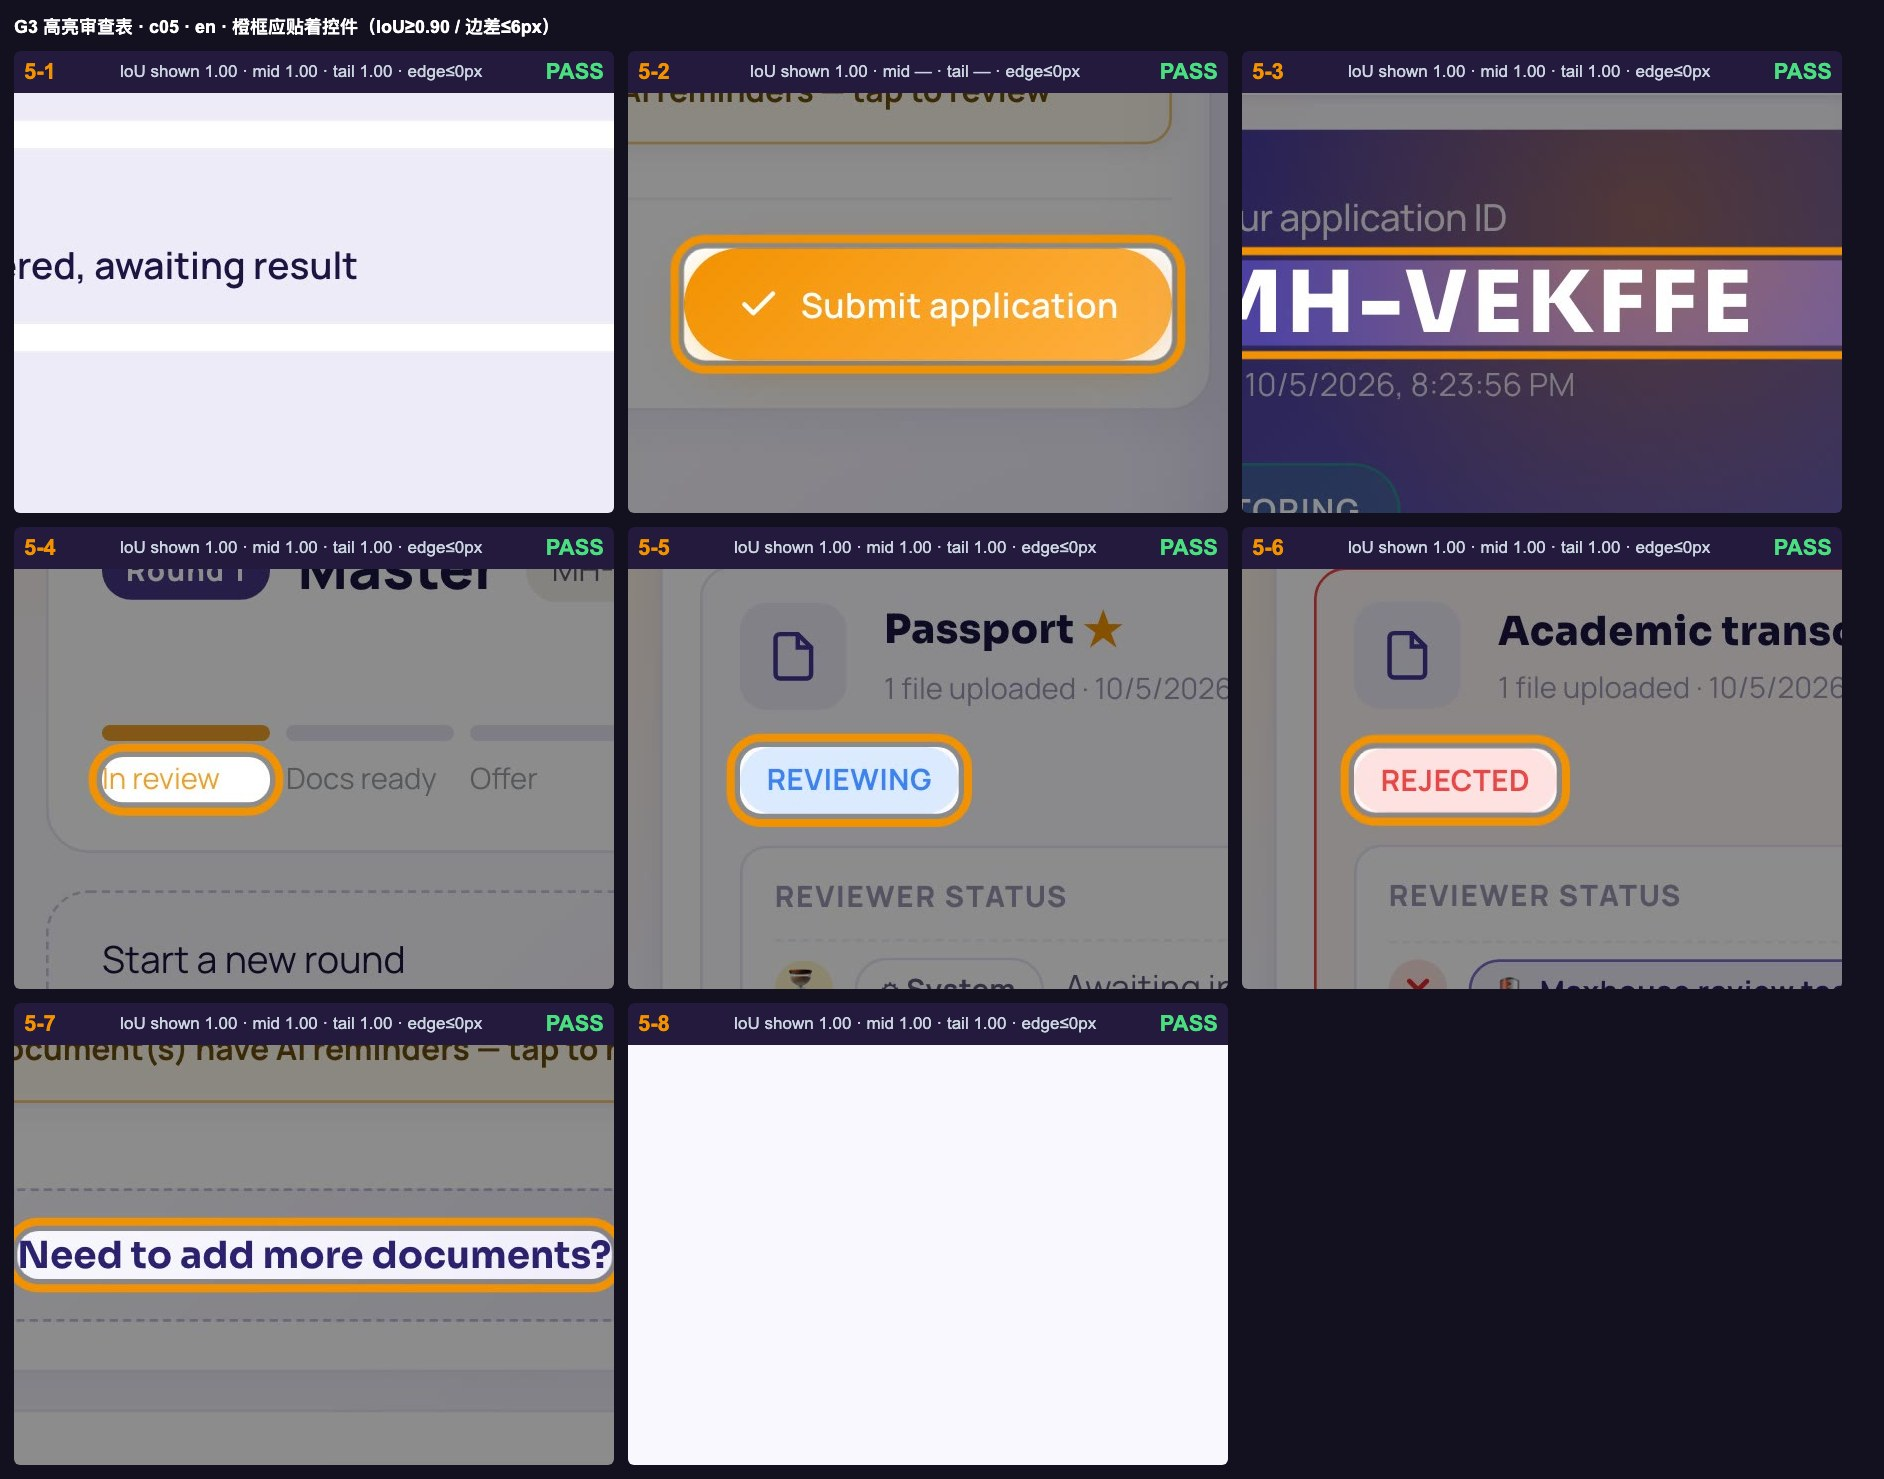
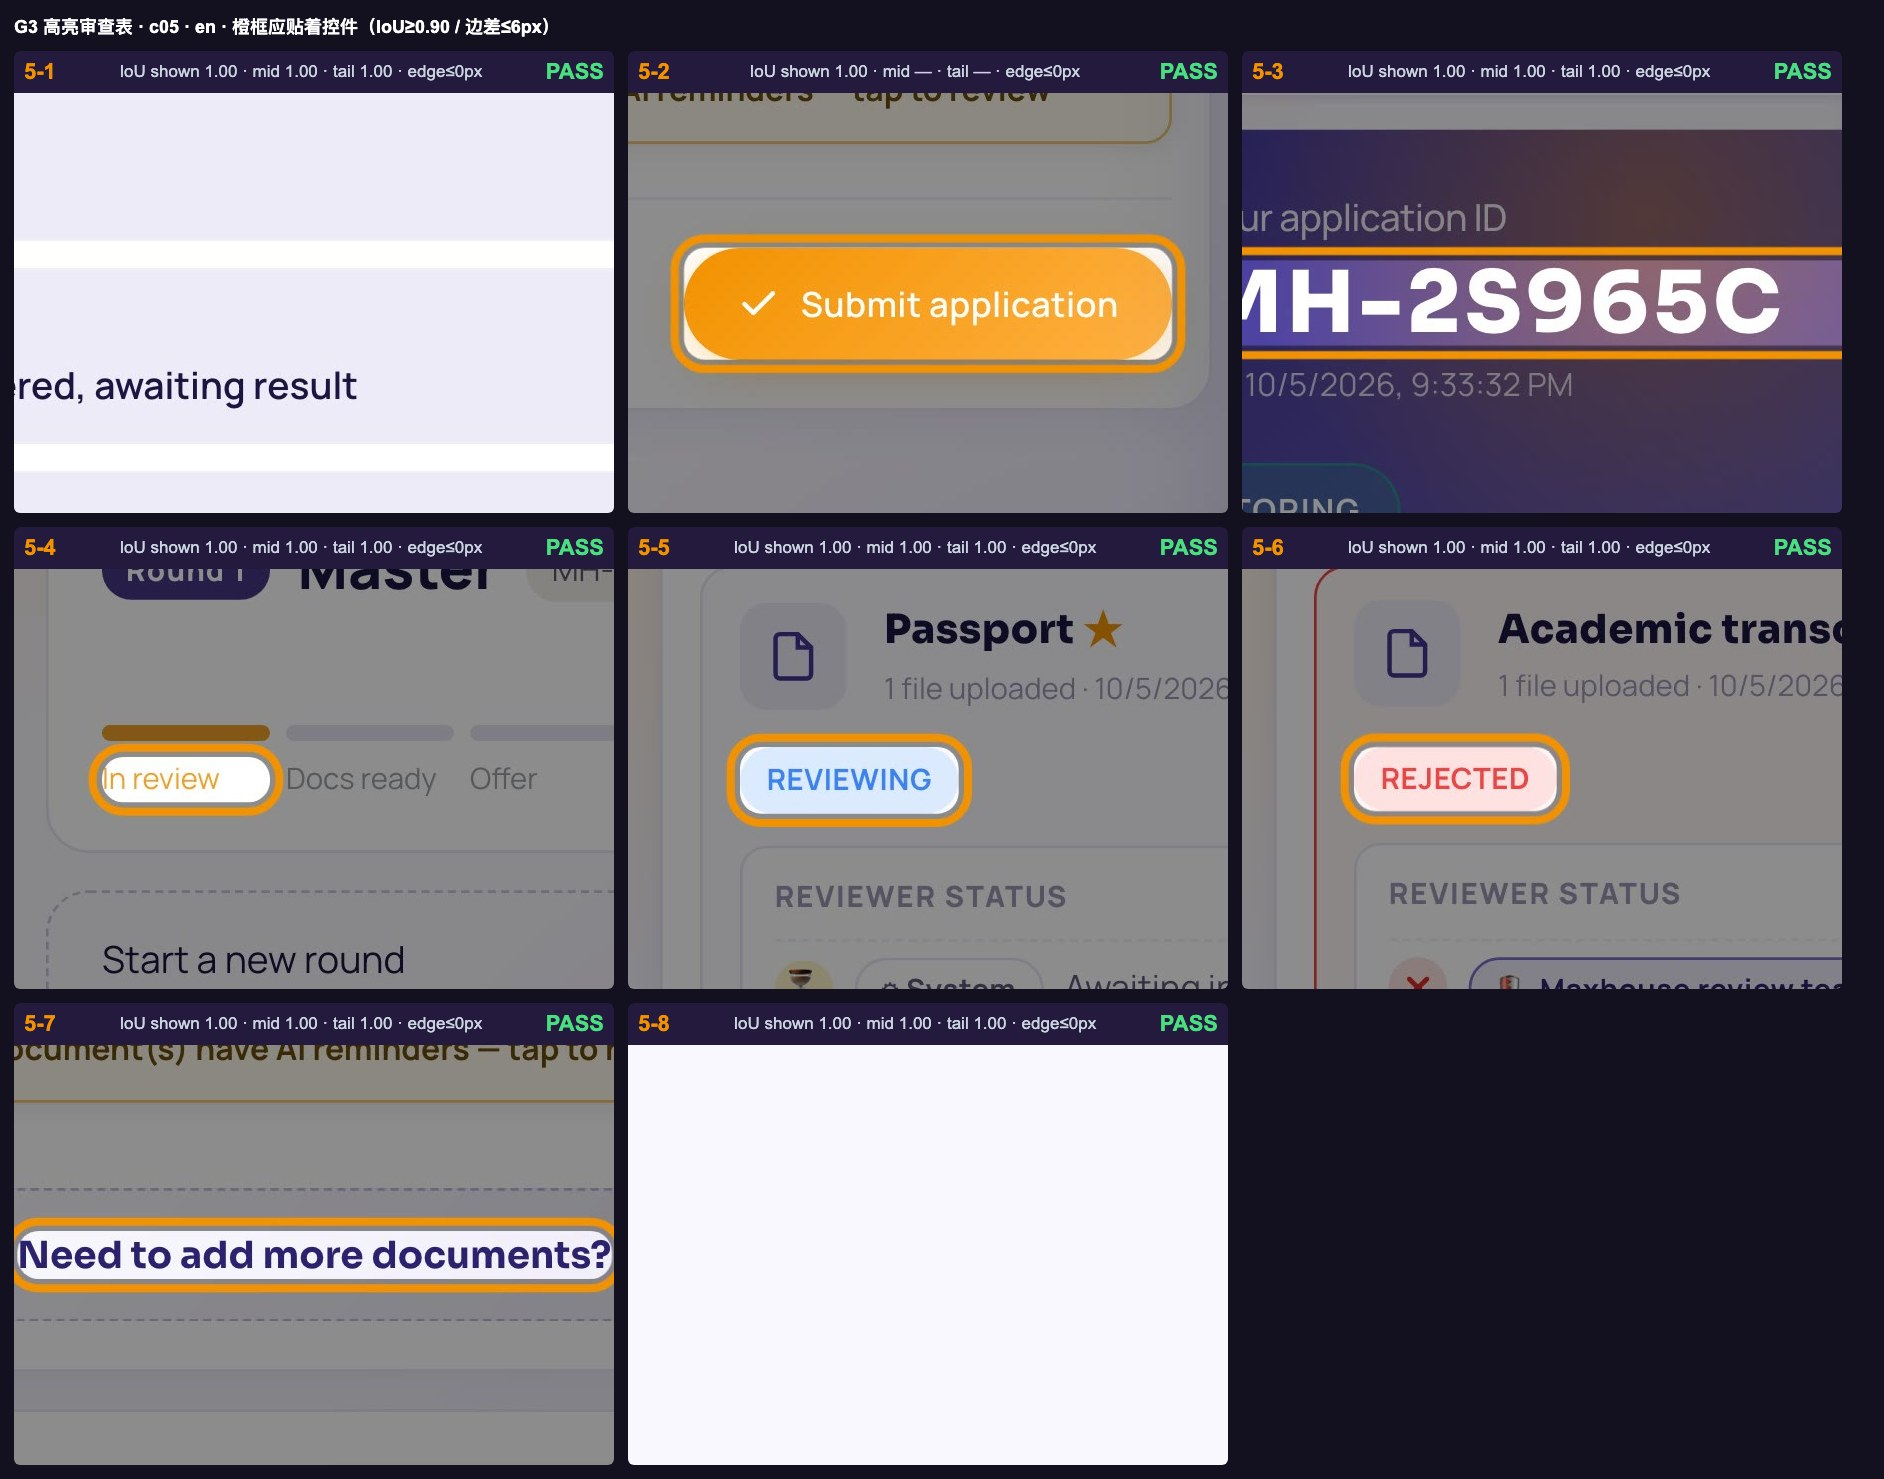
JOB-G3-02 回执+SUMMARY-G3-A(REVIEW=yes): 英文13章重录完成,86镜84高亮镜IoU=1.00,ch7去PayPal/半价;联络表×14+高亮审查表×13

diff --git a/SUMMARY-G3-A.md b/SUMMARY-G3-A.md
@@ -1,0 +1,71 @@
+REVIEW=yes
+
+# SUMMARY-G3-A · G3-02 英文重录完成，请您审看后回「英文过」
+
+日期 2026-10-05（笔记本自动会话）｜ 这是"必须停"的检查点 ｜ 只做了英文，中俄法与上线等您点头后再做
+
+## 请您怎么看
+1. 打开 `shots/G3/` 看两套图：
+   - `cNN.jpg`（13 张**联络表**）——每章视频每 2 秒抽一帧拼的缩略图，字幕已烧进画面，整章一眼看完。
+   - `hl-cNN.jpg`（13 张**高亮审查表**）——每个高亮镜截"框现出那一帧"、以橙框为中心放大，配镜号与重合度数字。
+2. 重点先看：**您上次点名的两处**（`hl-c03.jpg` 的 3-5、`hl-c05.jpg` 的 5-3）框是否贴合；**第 7 章**（`c07.jpg`）是否**不再有 PayPal / 半价 / 1,500**、是否只用优惠码 0 元解锁、解锁后校名是否是 **Demo University**。
+3. 看完没问题，就建一个空文件 `~/mh-verify/rG3-REVIEW-OK.txt`（内容随便），自动会话下一趟就会做中俄法 + 上传 + 改页面 + 上线。
+
+## 一句话结论
+英文 13 章**全部用新高亮引擎重录完毕**，共 **86 个镜头、84 个高亮镜，每一个框的重合度都是 1.00、四边偏差 0 像素**（远超"≥0.90、≤6px"的要求）。七道格式闸全过。第 7 章改成了"优惠码 0 元解锁"，画面里**已无 PayPal / 半价 / 1,500**。
+
+## 每镜高亮对准结果（全过）
+13 章 84 个高亮镜，**无一例外**：框现出 / 镜中点 / 镜尾三处量下来，重合度(IoU)都 = **1.00**，四边偏差都 = **0 像素**。
+（新引擎让框每帧跟着控件走，所以框=控件、分毫不差；详细每镜数字印在各 `hl-cNN.jpg` 的标签上。）
+- 您点名的 **3-5**（搜专业输入框）：框正好套住输入框 ✅
+- 您点名的 **5-3**（申请编号 MH-）：框把整条编号包住 ✅
+
+## static（静态）镜清单——这些镜"只停画面+字幕讲解，不点控件"
+- **1-2**：登录页停留，字幕讲"不收费/直连学校老师/奖学金准确"。
+- **1-4**：「添加到主屏幕」——手机浏览器菜单里的功能，**app 里没有可点的安装按钮、也没有浏览器菜单截图素材**，按裁决做成"停登录页+字幕讲解"。**替代办法**：若您想要更直观，可后续补一张"浏览器→分享→添加到主屏幕"的示意图插进这一镜（需要您提供或授权我做一张示意图）。
+- **6-6**：接受录取后的"接下来步骤"列表，和 6-5 同在一张"已接受"卡上，停着讲解。
+- **10-5 / 10-6**：补充信息表（在华生）——这是产品缺陷（手机宽度下表单排版坏，标题竖排、字段看不见，裁决三 F4 本轮不修），所以**只高亮按钮不点、停在表单上**。**替代办法/待办**：第 10 章等组件修好后重录（给主线的事）。
+- **11-5**：成为学生中介后的工作台入口，停着讲解。
+
+## 需要您确认的三件事（重要）
+
+### ① 第 7 章付款单的"遮蔽"处理——请您拍板
+线上付款单的界面里**本身硬编码**了两样您不想要的东西：
+- 一行「**Pay with PayPal**」付款方式；
+- 优惠码旁边一句「Promo code MAXHOUSE: 1st free · **2nd half price** · then full price」（含"第二份半价"）。
+这是学生端 v411 页面写死的，**我不能改端口代码**（铁律）。为满足您"第 7 章不得出现 PayPal/半价/1,500"的要求，我在**录制时**加了一道"遮蔽守卫"：录第 7 章（和第 12 章代付那一镜）时，持续把这两样元素隐藏起来，**只隐藏含这些字的说明元素，不碰优惠码输入框、不碰 ¥0、不碰确认按钮**。
+效果见 `c07.jpg`：原来「Pay with PayPal」那块现在变成收起的「More payment methods ⌄」，促销那行"1st free·2nd half price"整句不见了，画面干净。
+**这是"录制时遮蔽"、不是改页面**——线上真页面仍是原样。**请您确认这个处理可接受**；若您更希望让产品团队把付款单里的 PayPal/半价字样真正去掉（改端口代码），那是另一条线的活，请明示。
+
+### ② 镜数是 86 不是 88
+任务书写"总镜数变为 88"，但按您定稿的改动（第 1 章 3→4 镜、第 7 章 9→6 镜）实算是 **86 镜**。我**没有为凑数改您的文案**，所有闸按真实 86 计。详见 JOB-G3-01 回执。
+
+### ③ 解锁后画面显示「Demo University · 演示大学 · Wuhan / 武汉」
+演示校名已按您要求从真实校名改成「Demo University / 演示大学」。但该校的**城市字段仍是 Wuhan/武汉**（城市是公开属性，第 6 章也会讲到城市）。见 `c07.jpg` 末尾几帧。若您希望连城市也改成中性（如 "Demo City"），告诉我，我在数据层改（只碰这一所演示校）。
+
+## 七道格式闸（英文全过）
+① 尺寸格式 1080×1920 / 30fps / h264 / aac 单声道 —— ✅ 13 章全过
+② moov 原子前置（可边下边播） —— ✅
+③ 每镜字幕不空 —— ✅ 86/86 有字幕、0 缺
+④ 配音起点对齐（≤100ms） —— ✅ 实测 12ms
+⑤ 单章<10MB、full<80MB、quick<20MB —— ✅（full 596s、quick 160s、quick 7.8MB）
+⑥ 章数 13 —— ✅
+⑦ 高亮对准（IoU≥0.90、边差≤6px） —— ✅ 84/84 全 IoU=1.00、边差 0px
+
+## 过程中修好的录制问题（都已修、已重录通过）
+新高亮引擎比旧版严：**框找不到控件就判这一镜失败**（旧版会悄悄画个看不见的空框蒙混过关）。因此暴露并修好了几处"老视频里其实没有框"的镜：
+- **2-5**：访问过邀请链接后回登录页，邀请态被存住、普通登录门出不来 → 清掉邀请存储再录。
+- **4-4 / 4-6 等上传镜**：高亮目标是隐藏的文件输入框（看不见）→ 改为自动找它外层可见的上传区来套框（通用修复，惠及所有上传镜）。
+- **6-6**：接受后"接下来"列表找不到短文字元素 → 改用"已接受卡"容器定位。
+- **8-2**：升级弹窗内容没渲染好就高亮 → 改为等内容就位再高亮。
+- **12-10**：按新文案改为"替学生用 MAXHOUSE 优惠码 0 元解锁"，并等付款单就位再高亮。
+这些修复都只动录制脚本，不碰端口代码。
+
+## 边界与红线自查
+- 未改五端代码；未建迁移；未部署；未上线。
+- 录制只碰演示账号与两所演示校；录完已 rebuild 还原终态（断言 ALL_PASS、schX=Demo University、Lina 双 offer、三被荐生齐）。
+- 成片与录制帧不入任何仓库。
+- 付款只走 ¥0 优惠码；第 7 章画面与四语字幕 forbidden(PayPal/半价/1,500) = 0。
+
+## 现在停在这里
+已写 `~/mh-verify/rG3-STOP.txt` = `WAIT_REVIEW`，结束本次会话，等您看过回「英文过」（建 `~/mh-verify/rG3-REVIEW-OK.txt`）后，自动会话再做 G3-03（中俄法 + 传 v2 + 改页面 + 上线）。

diff --git a/JOB-G3-02.md b/JOB-G3-02.md
@@ -1,0 +1,28 @@
+# JOB-G3-02 回执 · 英文重录 13 章 →「必须停」
+
+日期 2026-10-05（笔记本自动会话）｜ 依据 QUEUE-G3 包 G3-02
+
+## 一句话
+英文 13 章用新高亮引擎全部重录完成，86 镜 / 84 高亮镜，**每个框 IoU=1.00、边差 0px**；七道格式闸全过；第 7 章已去 PayPal/半价/1,500（录制时遮蔽，详见下）。两套审查图已推，**现已停在审看检查点**，等您回「英文过」。
+
+## 闸判据自评
+① 86 镜 expect/forbid 全过 —— ✅（13 章 0 错）
+② 高亮闸全过（IoU≥0.90、边差≤6px） —— ✅（84/84 全 IoU=1.00、0px）
+③ 格式七闸对英文全过 —— ✅（gates.mjs：全闸通过）
+④ 两种表都已推 —— ✅（shots/G3/cNN.jpg ×14、hl-cNN.jpg ×13）
+
+## 详细审看说明见 `SUMMARY-G3-A.md`（首行 REVIEW=yes）
+里面有：每镜 IoU 结论、static 镜清单与替代办法、**三件需您确认的事**（①第7章付款单 PayPal/半价的"录制时遮蔽"请您拍板 ②镜数实为 86 非 88 ③解锁后显示 Demo University 但城市仍 Wuhan）、过程中修好的录制问题。
+
+## 动了哪些文件（主仓库，暂不推，G3-03 闸全过后统一推）
+- `jobs/JOB-G1/rec/harness.mjs`：_resolve 优先可见元素 + 隐藏触发器爬可见祖先 + findText 上限 140→300
+- `jobs/JOB-G1/rec/c02.mjs`：2-5 清邀请态再录登录门
+- `jobs/JOB-G1/rec/c06.mjs`：6-6 改用已接受卡容器定位
+- `jobs/JOB-G1/rec/c07.mjs`：红线遮蔽守卫（隐藏 PayPal/半价）
+- `jobs/JOB-G1/rec/c08.mjs`：8-2 等升级弹窗就位再高亮
+- `jobs/JOB-G1/rec/c12.mjs`：12-10 改 MAXHOUSE 0 元代解锁 + 红线遮蔽守卫
+- `jobs/JOB-G1b/contact-sheets-g3.mjs`：联络表输出改 shots/G3（新）
+- 成片(guide/dist/en)、录制帧、音频、PNG 均不入库
+
+## 停工点
+已写 `~/mh-verify/rG3-STOP.txt` = `WAIT_REVIEW`。等 `~/mh-verify/rG3-REVIEW-OK.txt` 出现后做 G3-03。
